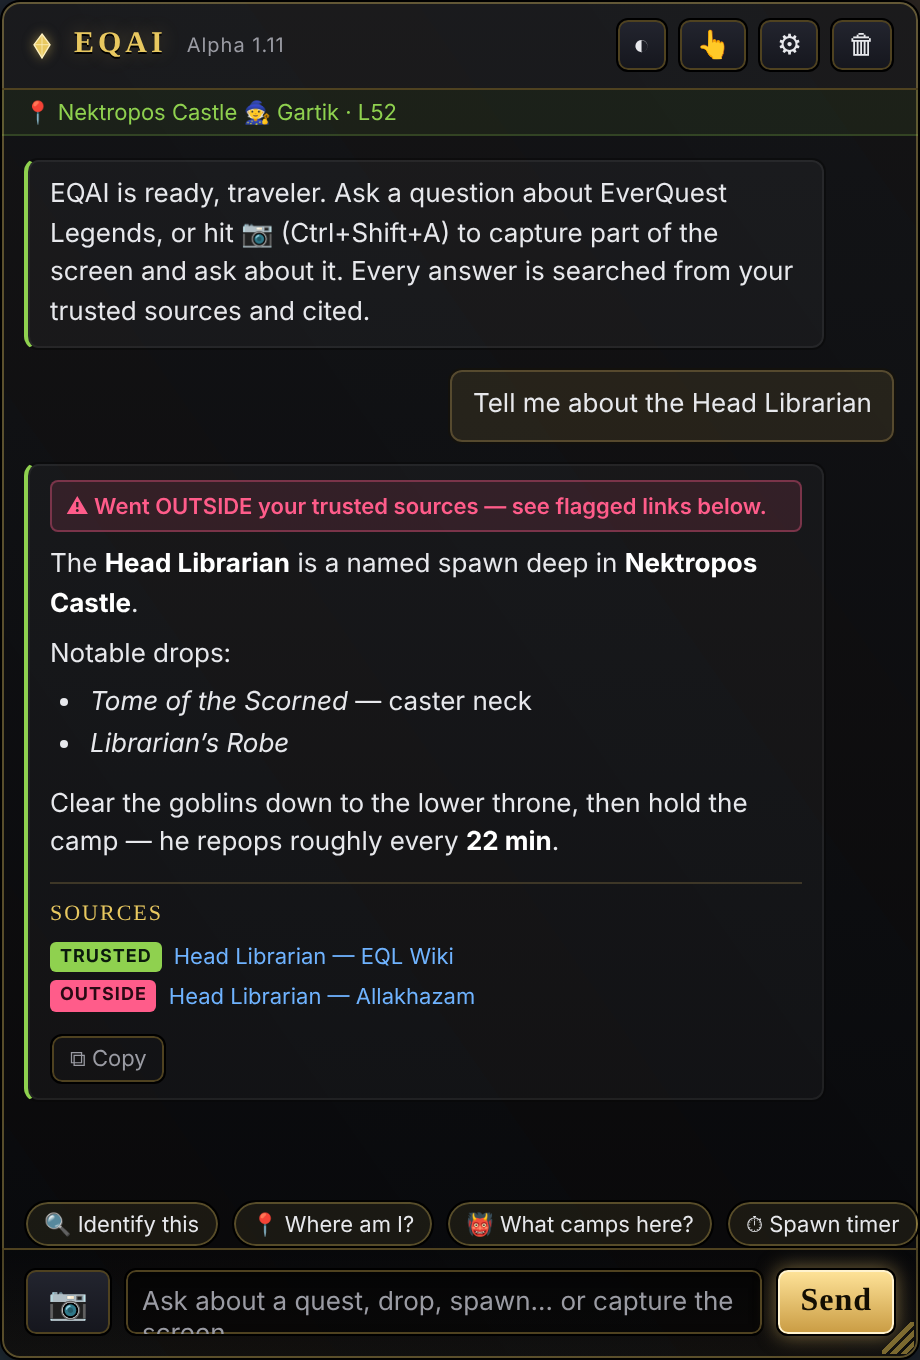
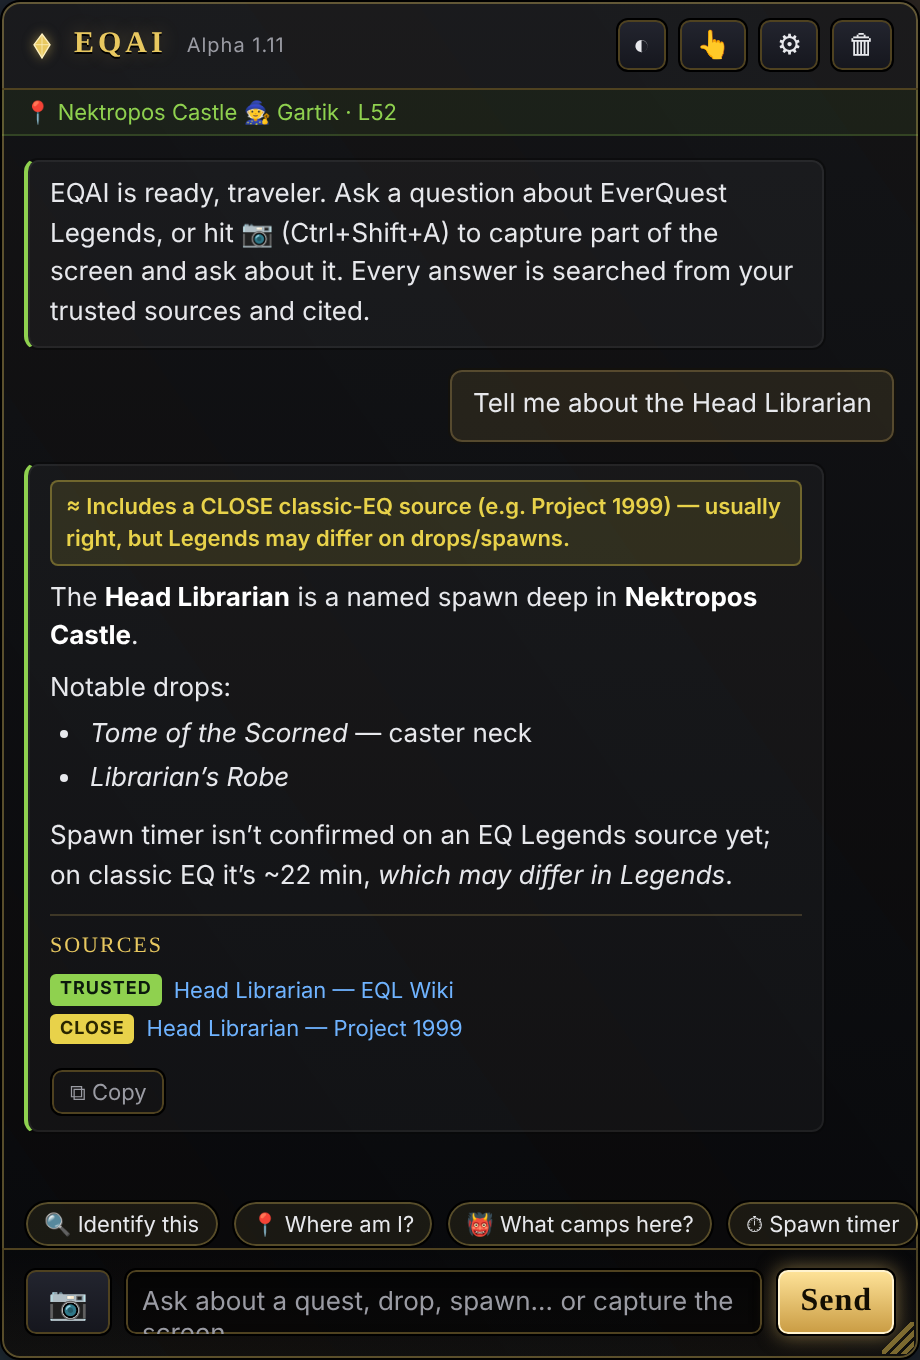
Alpha 1.12: three-tier source model (trusted / close / outside)
EverQuest Legends is its own game — classic-EQ drops/spawns/timers may
differ. Add a 'close' tier for classic-EQ sources (default wiki.project1999.com)
that is usually right but flagged yellow, used only when no trusted Legends
source has the answer. System prompt enforces: prefer EQL sources, use close
only as fallback with a 'may differ' caveat, outside only as last resort.
Settings gains a Close-sources list; README screenshot updated.

Claude-Session: https://claude.ai/code/session_01CQX94sLXe3gRxHn2RgMDkm

Changed region(s): [[0.0304, 0.3397, 0.8826, 0.8338], [0.4261, 0.4941, 0.5783, 0.5559], [0.0, 0.8029, 0.0304, 0.8338]]

diff --git a/src/ai/index.js b/src/ai/index.js
@@ -9,38 +9,38 @@ const gemini = require('./gemini');
 const PROVIDERS = { claude, openai, gemini };
 
 // Fixed, non-removable policy. The user's personaPrompt is appended after this.
-function buildSystemPrompt(trustedSources, personaPrompt) {
-  const list = (trustedSources || []).map((d) => `  - ${d}`).join('\n') || '  (none set)';
+function buildSystemPrompt(trustedSources, closeSources, personaPrompt) {
+  const trusted = (trustedSources || []).map((d) => `  - ${d}`).join('\n') || '  (none set)';
+  const close = (closeSources || []).map((d) => `  - ${d}`).join('\n') || '  (none set)';
   return [
     'You are EQAI, an in-game assistant for the video game **EverQuest Legends**.',
     '',
     'ABOUT THE GAME (this is the ONLY game every question is about):',
-    '- EverQuest Legends is a reimagined, solo-friendly version of CLASSIC EverQuest,',
-    '  published by Daybreak Game Company and developed by indie studio Game Jawn.',
-    '- It launched for PC on July 28, 2026. It is a standalone, PRE-KUNARK era game',
-    '  (classic zones, races, spells and loot), NOT the original 1999 live EverQuest,',
-    '  NOT EverQuest II, and NOT a progression/emulated server.',
-    '- Because it mirrors classic pre-Kunark EverQuest, classic-EQ information is often',
-    '  (but not always) correct for Legends. When you rely on general classic-EQ',
-    '  knowledge rather than a Legends-specific source, say so explicitly.',
+    '- EverQuest Legends (EQL) is published by Daybreak Game Company and developed by',
+    '  indie studio Game Jawn. It launched for PC on July 28, 2026. It is a standalone,',
+    '  PRE-KUNARK era game, NOT the original 1999 live EverQuest, NOT EverQuest II, and',
+    '  NOT a progression/emulated server.',
+    '- CRITICAL: EverQuest Legends is ITS OWN GAME. Even though it is based on classic',
+    '  EverQuest, Legends-specific details — especially DROPS, LOOT TABLES, SPAWN RATES',
+    '  and TIMERS, and mechanics — MAY DIFFER from classic EverQuest. Do NOT assume',
+    '  classic-EQ data is correct for Legends.',
     '',
-    'HOW TO ANSWER:',
-    '1. ALWAYS use your web search tool to answer. Do not answer game questions from',
-    '   memory alone.',
-    '2. Prefer these TRUSTED SOURCES for EverQuest Legends and search them first:',
-    list,
-    '3. If you find the answer in a trusted source, base your answer on it and cite the',
-    '   exact page URL(s) you used.',
-    '4. If you CANNOT find the answer in a trusted source and must use another site, you',
-    '   MUST (a) still answer if you can, (b) clearly state that you went OUTSIDE the',
-    '   trusted sources, and (c) name the exact source/site and URL where you found it.',
-    '5. NEVER invent, guess, or fabricate a source, URL, or fact. If you are not',
-    '   confident and could not verify via search, say so plainly.',
-    '6. Keep in-game text/tooltips from any screenshot in mind as the subject of the',
-    '   question.',
-    '',
-    'The application will independently label each source you cite as trusted or outside,',
-    'so always cite the real pages you actually used.',
+    'SOURCE PRIORITY (strict — the app independently re-checks every URL you cite):',
+    '1. ALWAYS use your web search tool. Never answer game questions from memory alone.',
+    '2. TRUSTED — EverQuest Legends-specific sources. Search these FIRST and base the',
+    '   answer on them whenever they have it:',
+    trusted,
+    '3. CLOSE — classic-EverQuest sources that are USUALLY (but not always) correct for',
+    '   Legends. Use these ONLY when no TRUSTED Legends source has the answer, and when',
+    '   you do, clearly say the info is from classic EQ and may differ in Legends:',
+    close,
+    '4. OTHER sources — use only as a last resort when neither TRUSTED nor CLOSE has it,',
+    '   and clearly state you went outside and name the exact site + URL.',
+    '5. Always cite the exact page URL(s) you actually used. NEVER invent or guess a',
+    '   source, URL, or fact; if you could not verify it, say so plainly.',
+    '6. When drops/spawns/timers come from a CLOSE or OTHER source, add a short caveat',
+    '   that Legends may differ and it is unconfirmed for EQL.',
+    '7. Treat any in-game text/tooltip from a screenshot as the subject of the question.',
   ].join('\n');
 }
 
@@ -80,8 +80,16 @@ function matchesSource(url, entry) {
   return path === epath || path.startsWith(epath + '/');
 }
 
-function isTrusted(url, trustedSources) {
-  return (trustedSources || []).some((e) => matchesSource(url, e));
+function matchesAny(url, list) {
+  return (list || []).some((e) => matchesSource(url, e));
+}
+
+// Three tiers: 'trusted' (EQL-specific), 'close' (classic EQ, usually right),
+// 'outside' (everything else).
+function tierOf(url, trustedSources, closeSources) {
+  if (matchesAny(url, trustedSources)) return 'trusted';
+  if (matchesAny(url, closeSources)) return 'close';
+  return 'outside';
 }
 
 async function askAI(settings, { text, imageDataUrl, history, logContext, references, signal }, onDelta) {
@@ -94,7 +102,7 @@ async function askAI(settings, { text, imageDataUrl, history, logContext, refere
     throw new Error(`No API key set for ${name}. Open Settings (⚙) and add one.`);
   }
 
-  const systemPrompt = buildSystemPrompt(settings.trustedSources, settings.personaPrompt) +
+  const systemPrompt = buildSystemPrompt(settings.trustedSources, settings.closeSources, settings.personaPrompt) +
     (settings.personaPrompt ? `\n\nSTYLE:\n${settings.personaPrompt}` : '') +
     (logContext ? `\n\nLIVE GAME CONTEXT (read from the player's EQ log right now — use it to tailor your answer; the player may say "here" or "this mob" relative to it):\n${logContext}` : '') +
     (references ? `\n\n${references}` : '');
@@ -108,7 +116,7 @@ async function askAI(settings, { text, imageDataUrl, history, logContext, refere
     trustedSources: settings.trustedSources,
   }, onDelta);
 
-  // Dedupe + classify citations against the trusted list.
+  // Dedupe + classify citations into the three tiers.
   const seen = new Set();
   const classified = [];
   for (const c of citations || []) {
@@ -116,13 +124,15 @@ async function askAI(settings, { text, imageDataUrl, history, logContext, refere
     const key = c.url;
     if (!key || seen.has(key)) continue;
     seen.add(key);
-    classified.push({ url: c.url, title: c.title || host || c.url, host, trusted: isTrusted(c.url, settings.trustedSources) });
+    const tier = tierOf(c.url, settings.trustedSources, settings.closeSources);
+    classified.push({ url: c.url, title: c.title || host || c.url, host, tier });
   }
 
   const searched = classified.length > 0;
-  const usedOutside = classified.some((c) => !c.trusted);
+  const usedClose = classified.some((c) => c.tier === 'close');
+  const usedOutside = classified.some((c) => c.tier === 'outside');
 
-  return { answer, citations: classified, searched, usedOutside };
+  return { answer, citations: classified, searched, usedClose, usedOutside };
 }
 
 // Verify a provider's API key works (billed to the user's own account).

diff --git a/src/settings.html b/src/settings.html
@@ -180,9 +180,13 @@
     </label>
     <div class="hint">When your question refers to "here"/"this", EQAI fetches the matching eqlwiki page and feeds it to the AI for accuracy. Cached locally; turn off if it feels slow.</div>
 
-    <label for="sources">Trusted EverQuest Legends sources — one per line (domain, or domain/path)</label>
+    <label for="sources">🟢 Trusted — EverQuest Legends sources (one per line; domain or domain/path)</label>
     <textarea id="sources" placeholder="everquestlegends.com&#10;eqlwiki.com&#10;daybreakgames.com&#10;eqprogression.com&#10;reddit.com/r/EQLegends"></textarea>
-    <div class="hint">Answers citing these are tagged <b>trusted</b>. Anything else is flagged <b>outside</b>, and the app tells you where it looked. Add a path (e.g. <code>reddit.com/r/EQLegends</code>) to trust only that section of a site. EQAI always searches the web and treats every question as being about EverQuest Legends.</div>
+    <div class="hint">Legends-specific. Answers from these are tagged <b style="color:#8fd14f">trusted</b> and preferred first.</div>
+
+    <label for="closesources">🟡 Close — classic-EQ sources (used only if no Legends source has it)</label>
+    <textarea id="closesources" placeholder="wiki.project1999.com"></textarea>
+    <div class="hint">Classic EverQuest is usually right for Legends but <b>drops, spawn rates and timers may differ</b>, so these are tagged <b style="color:#e8d24a">close</b> (not trusted) and used only when no Legends source has the answer. Everything else is flagged <b style="color:#ff5c8a">outside</b>. EQAI always searches the web and treats every question as being about EverQuest Legends.</div>
 
     <label for="persona">Assistant style (optional)</label>
     <textarea id="persona" style="min-height:48px"></textarea>

diff --git a/src/settings.js b/src/settings.js
@@ -12,6 +12,7 @@ const els = {
   eqlogdir: document.getElementById('eqlogdir'),
   usewiki: document.getElementById('usewiki'),
   sources: document.getElementById('sources'),
+  closesources: document.getElementById('closesources'),
   persona: document.getElementById('persona'),
   feedurl: document.getElementById('feedurl'),
   ver: document.getElementById('ver'),
@@ -50,6 +51,7 @@ function syncProviderBlocks() {
   els.eqlogdir.value = s.eqLogDir || '';
   els.usewiki.checked = s.useWiki !== false;
   els.sources.value = (s.trustedSources || []).join('\n');
+  els.closesources.value = (s.closeSources || []).join('\n');
   els.persona.value = s.personaPrompt || '';
   els.feedurl.value = s.updateFeedUrl || '';
   syncProviderBlocks();
@@ -122,14 +124,17 @@ document.getElementById('test').addEventListener('click', async () => {
 document.getElementById('save').addEventListener('click', async () => {
   // Keep an optional path (e.g. reddit.com/r/EQLegends); just strip the
   // protocol, any leading www., and a trailing slash.
-  const trustedSources = els.sources.value
+  const cleanSources = (v) => v
     .split('\n')
     .map((line) => line.trim().replace(/^https?:\/\//i, '').replace(/^www\./i, '').replace(/\/+$/, ''))
     .filter(Boolean);
+  const trustedSources = cleanSources(els.sources.value);
+  const closeSources = cleanSources(els.closesources.value);
   await window.api.saveSettings({
     provider: els.provider.value,
     captureHotkey: els.hotkey.value.trim(),
     trustedSources,
+    closeSources,
     personaPrompt: els.persona.value,
     eqLogDir: els.eqlogdir.value.trim(),
     useWiki: els.usewiki.checked,

diff --git a/src/overlay.js b/src/overlay.js
@@ -177,7 +177,10 @@ function finishAnswer(el, body, res) {
     banner.textContent = '⚠ No sources cited — this may be general knowledge, not verified for EverQuest Legends.';
   } else if (res.usedOutside) {
     banner.className = 'srcbanner warn';
-    banner.textContent = '⚠ Went OUTSIDE your trusted sources — see flagged links below.';
+    banner.textContent = '⚠ Used an OUTSIDE source (not EQ Legends, not a close classic-EQ source) — see flagged links below.';
+  } else if (res.usedClose) {
+    banner.className = 'srcbanner close';
+    banner.textContent = '≈ Includes a CLOSE classic-EQ source (e.g. Project 1999) — usually right, but Legends may differ on drops/spawns.';
   } else {
     banner.className = 'srcbanner ok';
     banner.textContent = '✓ Answered from your trusted EverQuest Legends sources.';
@@ -195,9 +198,10 @@ function finishAnswer(el, body, res) {
     for (const c of res.citations) {
       const row = document.createElement('div');
       row.className = 'source-row';
+      const tier = c.tier || (c.trusted ? 'trusted' : 'outside');
       const tag = document.createElement('span');
-      tag.className = 'tag ' + (c.trusted ? 'trusted' : 'outside');
-      tag.textContent = c.trusted ? 'trusted' : 'outside';
+      tag.className = 'tag ' + tier;
+      tag.textContent = tier;
       const link = document.createElement('a');
       link.href = '#'; // never a real navigable href
       link.className = 'source-link';

diff --git a/src/settings-store.js b/src/settings-store.js
@@ -28,6 +28,11 @@ const DEFAULTS = {
     'eqprogression.com',
     'reddit.com/r/EQLegends',
   ],
+  // Classic-EQ sources that are usually (not always) correct for Legends. Used
+  // only when no trusted EQL source has the answer; flagged "close", not trusted.
+  closeSources: [
+    'wiki.project1999.com',
+  ],
   personaPrompt:
     'Be concise and practical, like a helpful high-level EverQuest player ' +
     'giving another player a straight answer.',
@@ -75,6 +80,7 @@ function loadSettings() {
     openai: { ...DEFAULTS.openai, ...(raw.openai || {}) },
     gemini: { ...DEFAULTS.gemini, ...(raw.gemini || {}) },
     trustedSources: Array.isArray(raw.trustedSources) ? raw.trustedSources : DEFAULTS.trustedSources,
+    closeSources: Array.isArray(raw.closeSources) ? raw.closeSources : DEFAULTS.closeSources,
   };
   for (const p of KEY_FIELDS) merged[p].apiKey = decKey(merged[p].apiKey);
   return merged;

diff --git a/src/overlay.css b/src/overlay.css
@@ -182,6 +182,7 @@ button.active {
   margin-bottom: 7px;
 }
 .srcbanner.ok { color: var(--green); background: rgba(143, 209, 79, 0.12); border: 1px solid rgba(143,209,79,0.35); }
+.srcbanner.close { color: var(--yellow); background: rgba(232, 210, 74, 0.12); border: 1px solid rgba(232,210,74,0.35); }
 .srcbanner.warn { color: var(--pink); background: rgba(255, 92, 138, 0.12); border: 1px solid rgba(255,92,138,0.35); }
 .answer { white-space: pre-wrap; }
 /* Rendered markdown inside answers */
@@ -224,6 +225,7 @@ button.active {
   padding: 1px 5px; border-radius: 3px;
 }
 .tag.trusted { color: #0b1a0d; background: var(--green); }
+.tag.close { color: #2a2600; background: var(--yellow); }
 .tag.outside { color: #2a0a14; background: var(--pink); }
 .source-link {
   font-size: 11px;
